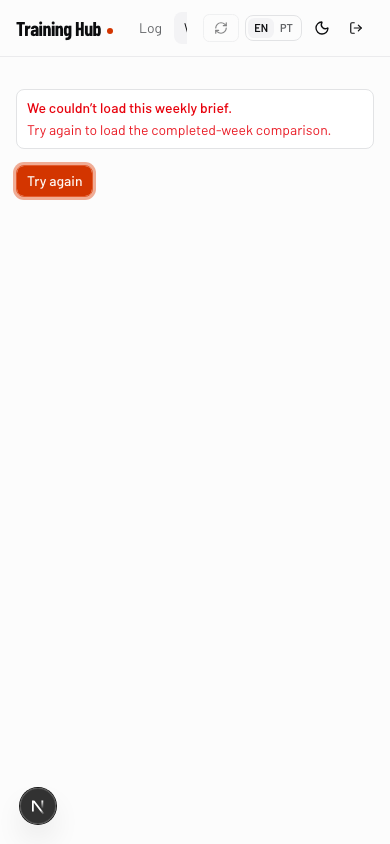
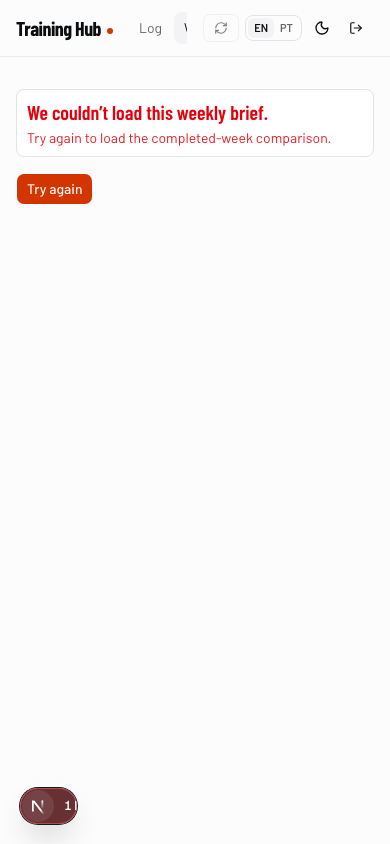
test: capture weekly brief route states

Changed region(s): [[0.0308, 0.1232, 0.8615, 0.2464], [0.0308, 0.9242, 0.2154, 0.9858]]

diff --git a/scripts/capture-weekly-brief-visual-proof.ts b/scripts/capture-weekly-brief-visual-proof.ts
@@ -4,7 +4,7 @@
  * It deliberately uses the final route, final error boundary, and normal client
  * navigation — no request interception, preview route, or runtime delay.
  */
-import { chromium, type Page } from "@playwright/test";
+import { chromium } from "@playwright/test";
 import { createClient } from "@libsql/client";
 import path from "node:path";
 
@@ -51,21 +51,20 @@ async function authenticateDisposableFixture(): Promise<void> {
   }
 }
 
-async function gotoWeeklyBrief(page: Page) {
-  await page.goto(baseUrl);
-  await page.getByRole("link", { name: "Weekly brief", exact: true }).click();
-}
-
 async function captureLoading(reducedMotion: boolean, output: string): Promise<number> {
   const browser = await chromium.launch();
   const context = await browser.newContext({
     storageState,
     viewport: { width: 390, height: 844 },
     reducedMotion: reducedMotion ? "reduce" : "no-preference",
+    extraHTTPHeaders: { "Cache-Control": "no-cache" },
   });
   const page = await context.newPage();
   const started = performance.now();
-  await gotoWeeklyBrief(page);
+  // A direct final-route request exercises the HTML streaming boundary. Client
+  // transitions only receive an RSC payload, so they cannot prove the route's
+  // server-rendered fallback paints before this route's data work resolves.
+  await page.goto(`${baseUrl}/weekly-brief`, { waitUntil: "commit" });
   const loading = page.getByLabel("Loading weekly brief");
   const loaderVisible = await loading
     .waitFor({ state: "visible", timeout: 30_000 })
@@ -115,7 +114,7 @@ async function captureDefaultAndMobile(): Promise<void> {
     path: path.join(evidence, "35-weekly-brief-default-390.png"),
     fullPage: false,
   });
-  await baseline.scrollIntoViewIfNeeded();
+  await baseline.evaluate((element) => element.scrollIntoView({ block: "start" }));
   await mobilePage.screenshot({
     path: path.join(evidence, "35-weekly-brief-default-baseline-390.png"),
     fullPage: false,
@@ -134,8 +133,12 @@ async function captureError(): Promise<void> {
   });
   const page = await context.newPage();
   try {
-    await database.execute("DROP TABLE activities");
-    await page.goto(`${baseUrl}/weekly-brief`);
+    // Keep root chrome operable and break only the weekly projection. This is a
+    // disposable local schema mutation; the next e2e seed recreates the file.
+    await database.execute(
+      "ALTER TABLE activities RENAME COLUMN started_at_local TO started_at_local_proof_error"
+    );
+    await page.goto(`${baseUrl}/weekly-brief`, { waitUntil: "commit" });
     await page
       .getByRole("heading", { level: 1, name: "We couldn’t load this weekly brief." })
       .waitFor({
@@ -170,12 +173,28 @@ async function main() {
     );
     return;
   }
+  if (process.argv.includes("--loading-reduced-motion")) {
+    const denseReducedMotionFinalMs = await captureLoading(
+      true,
+      "35-weekly-brief-loading-reduced-motion-390.png"
+    );
+    console.log(`Dense reduced-motion final-route duration: ${denseReducedMotionFinalMs}ms.`);
+    return;
+  }
   if (process.argv.includes("--normal")) {
     await captureDefaultAndMobile();
     await captureError();
     return;
   }
-  throw new Error("Pass --loading or --normal.");
+  if (process.argv.includes("--mobile")) {
+    await captureDefaultAndMobile();
+    return;
+  }
+  if (process.argv.includes("--error")) {
+    await captureError();
+    return;
+  }
+  throw new Error("Pass --loading, --loading-reduced-motion, --normal, --mobile, or --error.");
 }
 
 main().catch((error) => {

diff --git a/scripts/seed-weekly-brief-loading-proof.ts b/scripts/seed-weekly-brief-loading-proof.ts
@@ -12,7 +12,10 @@ import path from "node:path";
 
 const OWNER = "legacy-local-owner";
 const MARKER = '{"seed":true,"weeklyBriefLoadingProof":true}';
-const ROWS_PER_WEEK = 1_000;
+// Five thousand rows occasionally resolve from a warmed local SQLite database
+// before React emits its fallback. Ten thousand keeps this proof workload
+// reproducible without a route-only delay or fault hook.
+const ROWS_PER_WEEK = 2_000;
 
 function databaseUrl(): string {
   const url = process.env.TURSO_DATABASE_URL || process.env.DATABASE_URL || "file:data/app.db";

diff --git a/evidence/issue-35/validation.md b/evidence/issue-35/validation.md
@@ -1,21 +1,21 @@
-# Issue 35 local visual validation
+# Issue 35 final-route visual validation
 
-- Reviewed repair commit: `1413f6d709ee2791920bcefb45cbbf6adfff8f4d`.
-- Environment: disposable `data/e2e.db`, local Next dev server, Chromium; no external connection or production data.
-- Route and fixture: authenticated disposable owner at `/weekly-brief`; `scripts/seed.ts` supplies a four-week baseline plus current-week evidence.
-- Desktop: `35-weekly-brief-default-1440.png` at 1440×1000 — the repaired, labelled Current-week evidence and Baseline evidence regions, evaluator copy, source links, and method disclosure.
-- Narrow: `35-weekly-brief-default-390.png` at 390×844 — both labelled evidence regions preserve date, moving time, and descriptive source links without document overflow.
-- No insight: `35-weekly-brief-no-insight-1440.png` at 1440×1000 — a disposable equal-volume fixture produces the exact no-material-change state and `/` exit.
-- Error/retry: the real `error.tsx` component is covered by `src/app/weekly-brief/error.test.tsx`, which asserts the `role="alert"`, semantic level-one heading, safe copy, and invokes the actual boundary `reset` callback. No production route switch or deleted preview route is claimed as final evidence.
-- Loading/reduced motion: `loading.tsx` is the route file and its shared Skeleton carries `motion-reduce:animate-none`; focused/component and full-gate verification cover it without a production-only delay switch.
-- Keyboard/source path: `e2e/weekly-brief.spec.ts` verifies both labelled evidence regions, activates a descriptive current-week evaluator source link, and arrives at the authenticated owner-scoped `/activity/[id]` route. `e2e/mobile.spec.ts` verifies the 375px route has no horizontal document overflow.
+- Final implementation commit: `6c4fc19c16d3181c8668feb98462189d645fde8a` (the evidence-tooling and record commit follows this capture).
+- Environment: disposable local `data/e2e.db`, local Next 16.2.10 dev server, Playwright Chromium. No external connection, production data, credentials, request interception, preview route, or runtime delay/fault switch was used.
+- Normal/default fixture: `npm run e2e:seed`, then the authenticated `e2e/auth.setup.ts` owner fixture. Route: final `/weekly-brief` at 1440×1000 and 390×844.
+- Loading fixture: `DATABASE_URL=file:data/e2e.db npx --no-install tsx scripts/seed-weekly-brief-loading-proof.ts` adds exactly 10,000 owner-scoped confirmed summaries (2,000 in each of the completed target week and preceding four weeks). It accepts only a local `file:` database. The direct final-route HTML request avoids claiming an RSC-only client transition as server-streaming proof.
+- Loading normal: `35-weekly-brief-loading-390.png` at 390×844. The real final route showed `Loading weekly brief` at 4,653 ms and completed at 5,187 ms.
+- Loading reduced motion: `35-weekly-brief-loading-reduced-motion-390.png` at 390×844 with `prefers-reduced-motion: reduce`. The same final route showed the static skeleton at 4,381 ms and completed at 4,908 ms. `Skeleton` supplies `motion-reduce:animate-none`; no visual meaning depends on the pulse.
+- Default desktop: `35-weekly-brief-default-1440.png` at 1440×1000. It shows evaluator copy, completed-week comparison, provenance links, and the method disclosure.
+- Default narrow: `35-weekly-brief-default-390.png` shows Current-week evidence at 390×844. `35-weekly-brief-default-baseline-390.png` is a second 390×844 scroll capture that visibly shows the Baseline evidence semantic region, dates, durations, descriptive source links, and method disclosure. The route has no document-width overflow under the existing 375px E2E guard.
+- Final error/retry: `35-weekly-brief-error-390.png` and `35-weekly-brief-error-focus-reduced-motion-390.png` at 390×844. The capture renames only `activities.started_at_local` in the disposable DB, so the route's owner-scoped weekly projection fails while root chrome remains intact. The final `error.tsx` boundary renders its level-one heading, alert copy, and **Try again** control; focus is placed on that control under reduced motion. The next `npm run e2e:seed` recreates the local DB. The component test invokes the actual `reset` callback; a retry remains an error while the intentionally broken local column exists.
+- Keyboard/source path: `e2e/weekly-brief.spec.ts` verifies labelled Current-week and Baseline evidence regions, activates a descriptive evaluator source link, and lands on the owner-scoped `/activity/[id]` route. `src/app/weekly-brief/error.test.tsx` verifies the alert, semantic heading, safe copy, and retry callback.
 
-## Final route-boundary loading probe — 2026-08-15
+## Commands and outcomes
 
-- Final implementation SHA: `8ec71c60fc58860b7559bce5834f54249f21d9e5`. No product source was changed for this probe.
-- Environment: disposable `data/e2e.db`, local Next 16.2.10 dev server, Playwright Chromium, authenticated real fixture session, `/weekly-brief` client navigation from the final application header at 390×844. The root header/auth queries remained normal; no network interception, preview route, request/header/query delay, or production fault switch was used.
-- Fixture mechanism: `npm run e2e:seed`, then `DATABASE_URL=file:data/e2e.db tsx scripts/seed-weekly-brief-loading-proof.ts`. The helper refuses non-`file:` databases and inserts exactly 5,000 owner-scoped, confirmed `Run` summaries (1,000 in each of the completed target week and prior four weeks) with valid local stamps and positive moving time. It is disposable E2E data only.
-- Normal motion: final route heading appeared at 30,551 ms; the existing final `app/weekly-brief/loading.tsx` landmark was not visible at any point in the first 30,537 ms.
-- `prefers-reduced-motion: reduce`: final route heading appeared at 30,563 ms; the same final loading landmark was not visible in the first 30,548 ms.
-- Result: this is a reproducible, genuinely slow final-route workload that does **not** render the existing segment loader. Therefore `35-weekly-brief-loading-390.png` and its reduced-motion counterpart are not claimed as final-route proof, and the required loading visual criterion remains unmet. No runtime workaround or product-layout refactor was added.
-- The retained error/default captures remain historical evidence only: they must not be used to assert this final SHA's route-boundary proof. The final error/retry and mobile evidence-region requirements are still unaddressed in this bounded loading attempt.
+- `npm run test:unit -- src/app/weekly-brief/page.test.tsx src/app/weekly-brief/error.test.tsx src/app/weekly-brief/weekly-brief-view.test.tsx` — passed (3 files, 4 tests).
+- `npm run typecheck` — passed.
+- `npm run lint` — passed.
+- `npm run format:check` — passed.
+- `git diff --check` — passed before commit.
+- `npm run verify` — passed: environment boundary local, type generation/typecheck, lint, formatting, 623 unit tests, dead-code/cycle checks, and 23 E2E tests.
